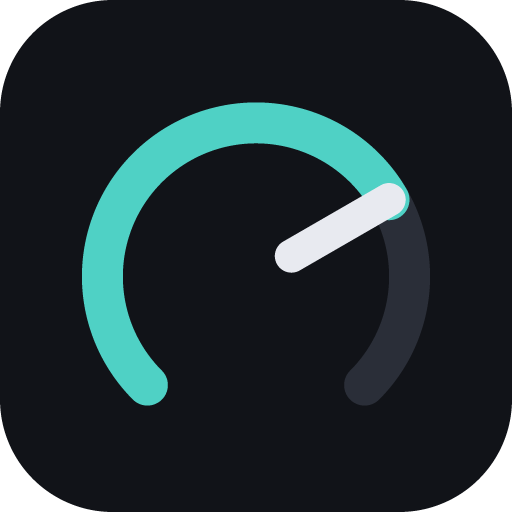
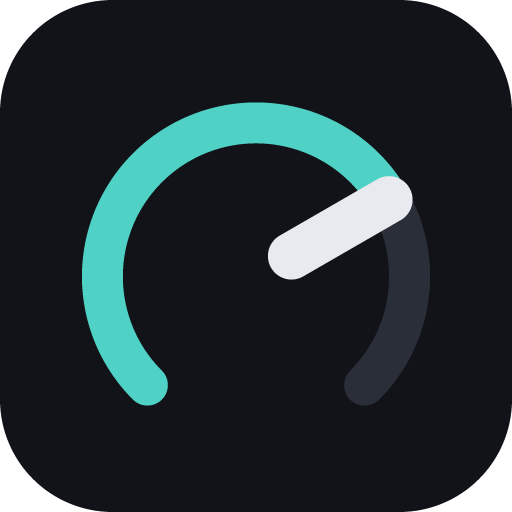
Knob pointer covers the end of the teal arc
The pointer was thinner than the arc, so the arc's rounded end showed
around the pointer's tip. It's now a little wider than the arc, in the
app icons (0.092 against 0.08) and the in-app knobs (10 against 9).

Changed region(s): [[0.5938, 0.3438, 0.8125, 0.5312], [0.5, 0.4062, 0.6562, 0.5625]]

diff --git a/src/ui/styles.css b/src/ui/styles.css
@@ -1476,9 +1476,10 @@ select {
   stroke: var(--accent);
 }
 
+/* A little wider than the arc, so the pointer's rounded end covers the arc's end. */
 .knob-pointer {
   stroke: var(--text);
-  stroke-width: 6;
+  stroke-width: 10;
   stroke-linecap: round;
 }
 
